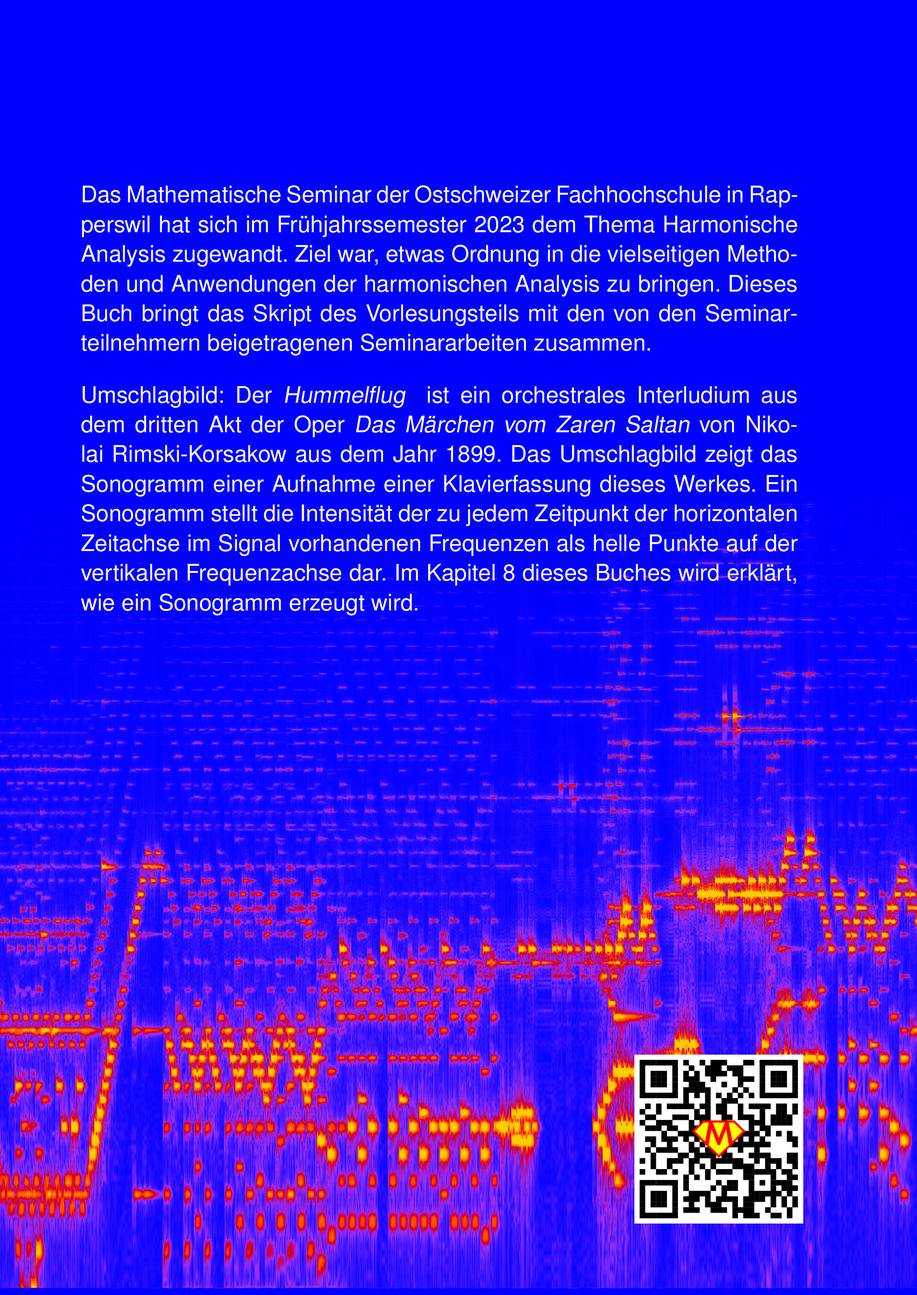
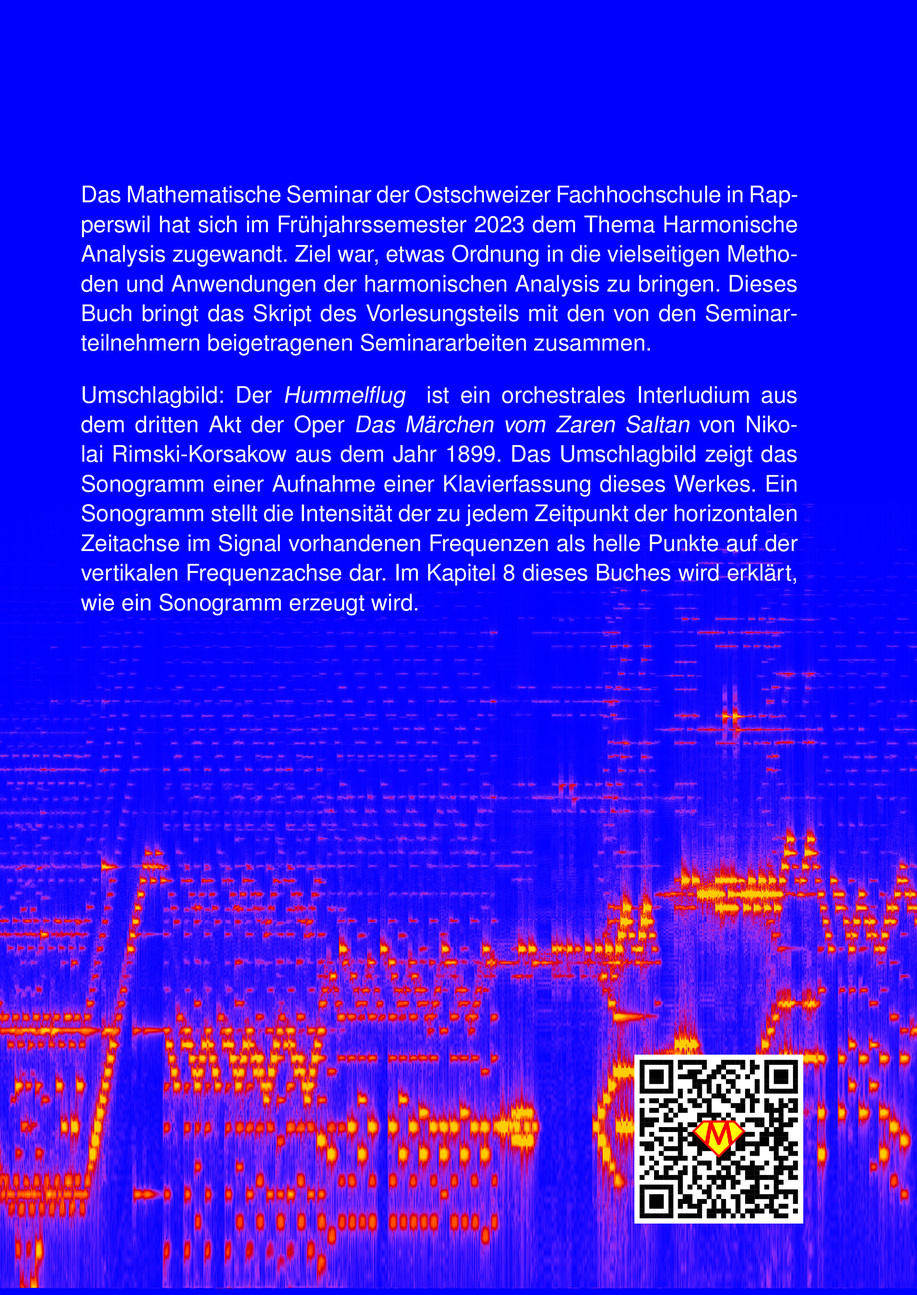
more index fixes

Changed region(s): [[0.6855, 0.8069, 0.8724, 0.9621]]

diff --git a/buch/papers/uebersicht.tex b/buch/papers/uebersicht.tex
@@ -15,11 +15,15 @@ und auch numerisch überprüft.
 Harmonische Analysis kann verwendet werden, um Tonsignale zu analysieren
 und zu modifizieren.
 {\em Alain Keller} erklärt im Paper Sonogramm
+\index{Keller, Alain}%
+\index{Sonogramm}%
 (Kapitel~\ref{chapter:sonogramm}), wie man damit eine
 visuelle Darstellung eines Musikstücks bekommen kann.
 {\em Florian Baumgartner} erweitert diese Ideen dann auf eine
+\index{Baumgartner, Florian}%
 Methode zur Korrektur einzelner Töne.
 Solche Systeme sind unter dem Namen Auto-Tune (Kapitel~\ref{chapter:autotune})
+\index{Auto-Tune}%
 bekannt und spielen
 in der modernen Musikproduktion eine wichtige Rolle.
 
@@ -29,7 +33,9 @@ Zum Beispiel kann man sich die Frage stellen, was überhaupt
 ``Rauschen'' ist und wie man es mit Hilfe der Frequenzanalyse
 charakterisieren kann.
 {\em Lukas Reitemeier} beschreibt in seinem Paper
+\index{Reitemeier, Lukas}%
 über die Brownsche Bewegung (Kapitel~\ref{chapter:brown})
+\index{Brownsche Bewegung}%
 ein Modell für Rauschen zeigt auch das Frequenzspektrum.
 
 Die Fourier-Transformation kann auch auf Bilder angewendet werden,
@@ -37,6 +43,8 @@ was natürlich mit sehr viel grösserem Rechenaufwand als für eine
 eindimensionales Signal möglich ist.
 {\em Marco Niederberger} und {\em Yanick Schoch} zeigen in ihrem Paper
 (Kapitel~\ref{chapter:opt}), 
+\index{Schoch, Yanick}%
+\index{Niederberger, Marco}%
 wie das Beugungsphänomen auf eine optische Realisierung der
 Fourier-Transformation führt.
 Damit wird es möglich, die Fourier-Transformation ohne Rechnung in
@@ -46,31 +54,41 @@ in einem Versuch ebenfalls vorführen.
 Die Fourier-Transformation kann auch gebraucht werden, um Bilder
 zu komprimieren.
 Wie das im Falle des JPEG-Formates funktioniert erklärt
+\index{JPEG}%
 {\em Jakob Gierer} in Kapitel~\ref{chapter:jpeg}.
+\index{Gierer, Jakob}%
 Er deutet auch an, wie JPEG-2000 die gleichen Ideen, allerdings mit
 Wavelets statt harmonischen Schwingungen, für fortgeschrittene 
 Komprimierung mit weniger Artefakten verwendet.
 Mehr Information zur Wavelet-Transformation und insbesondere
 zur Realisierung derselben mit dem Computer stellt {\em Stefan Richle}
+\index{Richle, Stefan}%
 in Kapitel~\ref{chapter:wavelets} dar.
+\index{Wavelets}%
 
 Ein Computer-Tomograph kann Querschnitt-Bilder eines Körpers
 herstellen.
+\index{Computer-Tomograph}%
 Diese Fähigkeit macht ihn zu einem der bedeutendsten Bildgebenden
 Verfahren in der Medizin.
 {\em Nathan Hoffman} erklärt in seiner Arbeit (Kapitel~\ref{chapter:ct}),
+\index{Hoffman, Nathan}%
 wie ein Bild aus der
 Radon-Transformation wiederhergestellt werden kann und zeigt auch
+\index{Radon-Transformation}%
 an Simulationen wie das praktisch funktioniert, wenngleich natürlich
 je nach Auflösung der Messung mehr oder weniger störende Artefakte bleiben.
 
 Die Gelfand-Theorie zeigt, das die wohlbekannte harmonische
+\index{Gelfand-Theorie}%
 Analysis mit harmonischen Schwingungen nur ein Fall von vielen
 möglichen solchen harmonischen Analysetheorien ist.
 {\em Vincent Haufe} beschreibt in Kapitel~\ref{chapter:mellin},
+\index{Haufe, Vincent}%
 wie man aus einer Aufgabe
 zur Bestimmung der zeitlichen Skalierung eines Signals eine
 neue Integraltransformation, die Mellin-Transformation, ableiten 
+\index{Mellin-Transformation}%
 kann.
 Seine Darstellung weist auch auf Anwendungen in der Antennentheorie
 hin.
@@ -86,11 +104,14 @@ Tidenstände für die Schiffahrt oder für die Planung von Küstenbauwerken
 ableiten.
 {\em David Bättig} erzählt die Geschichte dieser frühen aber besonders
 wichtigen Anwendung in Kapiteln~\ref{chapter:gezeiten}.
+\index{Bättig, David}%
+\index{Gezeiten}%
 
 Gezeiten sind nicht das einzige Phänomen auf der Erde, bei dem die
 Verwendung der harmonischen Analysis einen Vorteil bei der Lösungsfindung
 bringen kann.
 {\em Dmitry Grigoriev} erklärt in Kapitel~\ref{chapter:spektral},
+\index{Grigoriev, Dmitry}%
 wie die spektralen Methoden funktionieren, die seit den achtziger Jahren
 in der numerischen Wetterprognose verwendet werden und zu einer
 merklichen Verbesserung der Prognosegenauigkeit geführt haben.
@@ -99,6 +120,7 @@ merklichen Verbesserung der Prognosegenauigkeit geführt haben.
 Einfluss auf die Parameter der Erdbahn.
 Diese schlagen sich nieder in periodischen Veränderungen im Klima.
 {\em Jan Langenegger} analysiert berechnete Bahndaten über mehrere
+\index{Langenegger, Jan}%
 Millionen Jahre mit einfachsten Mitteln und findet die Periodiztäten,
 die Milankovi\'c vor über 100 Jahren bereits entdeckt hat.
 Er untersucht in Kapitel~\ref{chapter:milankovic} auch, welchen Einfluss
@@ -106,12 +128,14 @@ auf die aktuelle Klimadiskussion diese Zyklen haben können.
 
 Machine Learning und AI sind zur Zeit vor allem wegen ChatGPT und anderen
 spektakulären Anwendungen in aller Munde.
+\index{ChatGPT}%
 Die dahinterstehende Technologie der künstlichen neuronalen Netzwerke
 verspricht, für jedes beliebige Problem einen ``Approximator'' zu finden,
 der darauf trainiert werden kann, jedes beliebige Problem zu lösen.
 Es liegt daher nahe zu fragen, wie gut diese Technologie die
 Fourier-Transformation lernen kann.
 {\em Dominik Geschwind} beantwortet diese Frage in seiner Arbeit
+\index{Gschwind, Dominik}%
 (Kapitel~\ref{chapter:ml}).
 Er untersucht auch die Frage nach der Genauigkeit und Performance mit der
 AI die Fourier-Transformation berechnen kann, mit ernüchternden Resultaten.

diff --git a/buch/papers/ct/teil0.tex b/buch/papers/ct/teil0.tex
@@ -38,8 +38,8 @@ Jede Substanz hat die Eigenschaft, beim Durchgang von Röntgenstrahlen pro Milli
 \end{table}
 
 In der Praxis verwenden Radiologen eine modifizierte Version des Dämpfungskoeffizienten, die sogenannte Hounsfield-Einheit. Dieser von Godfrey Hounsfield eingeführte Zahlenwert ermöglicht einen direkten Vergleich zwischen dem Abschwächungskoeffizienten eines Mediums und dem von Wasser. Die Hounsfield-Einheit eines Mediums ist
-\index{Hounsfield}%
-\index{Godfrey Hounsfield}%
+\index{Hounsfield-Einheit}%
+\index{Hounsfield, Godfrey}%
 \begin{equation}
 	H_{\text{Medium}} := \dfrac{A_{\text{Medium}}-A_{\text{Wasser}}}{A_{\text{Wasser}} - A_{\text{Luft}}} \cdot 1000,
 \end{equation}

diff --git a/buch/chapters/060-diskret/6-unschaerfe.tex b/buch/chapters/060-diskret/6-unschaerfe.tex
@@ -435,6 +435,7 @@ Dies beweist den Satz.
 
 \begin{satz}[Donoho-Stark]
 \label{buch:diskret:unschaerfe:satz:donoho-stark}
+\index{Donoho-Stark-Unschärfe}%
 Für $f\colon G\to\mathbb{C}$ mit $f\ne 0$ gilt
 \[
 |\operatorname{supp}f|
@@ -552,6 +553,7 @@ Damit folgt jetzt aus dem allgemeinen Unschärfeprinzip der folgende
 Satz.
 
 \begin{satz}[$\varepsilon$-$\delta$-Unschärfe für $k$-Hadamard-Matrix]
+\index{epsilon-delta-Unschaerfe@$\varepsilon$-$\delta$-Unschärfe}%
 Ist $A$ eine $k$-Hadamard-Matrix und $\varepsilon,\delta\in [0,1)$,
 dann gilt
 \[

diff --git a/cover/buchcover.tex b/cover/buchcover.tex
@@ -176,7 +176,7 @@ wird.
         ({\einschlag+(\breite+13.6)/2+0.1},{\einschlag+\qrbottomoffset+\qrbreite+0.1});
 
 \node at ({\einschlag+(\breite+13.6)/2-\qrbreite/2},{\einschlag+\qrbottomoffset+\qrbreite/2}) {
-\qrcode[height=3cm]{https://mathsem.ch/jahre/2023}
+\qrcode[height=3cm]{https://mathsem.ch/jahre/2023/SeminarHarmonischeAnalysis.pdf}
 };
 \node at ({\einschlag+(\breite+13.6)/2-\qrbreite/2},{\einschlag+\qrbottomoffset+\qrbreite/2}) {
 \includegraphics[width=10mm]{mathman.png}

diff --git a/buch/papers/opt/main.tex b/buch/papers/opt/main.tex
@@ -15,6 +15,8 @@
 \kopflinks{Optische Fourier-Transformation}
 \begin{refsection}
 \chapterauthor{Marco Niederberger und Yanick Schoch}
+\index{Schoch, Yanick}%
+\index{Niederberger, Marco}%
 
 Die Fourier-Transformation ist in der Technik und insbesondere auch in der Elektrotechnik allgegenwärtig.
 Die Berechnung wurde mehrmals verbessert und es sind diverse schnelle Algorithmen vorhanden.

diff --git a/buch/papers/ml/0_einleitung.tex b/buch/papers/ml/0_einleitung.tex
@@ -41,7 +41,7 @@ Bilderkennung, Klassifizierung, Spracherkennung oder maschinelle Übersetzung.
 \index{Bilderkennung}%
 \index{Klassifizierung}%
 \index{Spracherkennung}%
-\index{Übersetzung, maschinell}%
+\index{Uebersetzung, maschinell@Übersetzung, maschinell}%
 
 \medskip
 In den nächsten zwei Abschnitten wollen wir diesen universellen Approximator konstruieren.

diff --git a/buch/papers/ct/main.tex b/buch/papers/ct/main.tex
@@ -10,6 +10,7 @@
 \kopflinks{Rekonstruktion eines CT-Bildes}
 \begin{refsection}
 \chapterauthor{Nathan Hoffman}
+\index{Hoffman, Nathan}%
 
 Im folgenden Kapitel wird die Rekonstruktion eines Computertomographie-Bildes, als CT-Bild abgekürzt, erklärt. 
 \index{Computertomographie}%

diff --git a/buch/papers/milankovic/main.tex b/buch/papers/milankovic/main.tex
@@ -11,6 +11,8 @@
 
 \begin{refsection}
 \chapterauthor{Jan Langenegger}
+\index{Langenegger, Jan}%
+
 \input{papers/milankovic/teil0_Einleitung.tex}
 \input{papers/milankovic/teil1_VorstellungderMilankovic-Zyklen.tex}
 \input{papers/milankovic/teil2_WissenschaftlicheArbeit.tex}

diff --git a/buch/papers/ml/main.tex b/buch/papers/ml/main.tex
@@ -10,6 +10,7 @@
 \kopflinks{Fourier-Transformation mit Machine Learning}
 \begin{refsection}
 \chapterauthor{Dominik Gschwind}
+\index{Gschwind, Dominik}%
 
 \input{papers/ml/0_einleitung.tex}
 \input{papers/ml/1_lineare_regression.tex}

diff --git a/buch/papers/autotune/main.tex b/buch/papers/autotune/main.tex
@@ -10,6 +10,7 @@
 \kopflinks{Auto-Tune}
 \begin{refsection}
 \chapterauthor{Florian Baumgartner}
+\index{Baumgartner, Florian}%
 
 \input{papers/autotune/00_Einleitung.tex}
 \input{papers/autotune/01_Pitch_Tonsystem_und_Stimmung.tex}

diff --git a/buch/papers/sonogramm/main.tex b/buch/papers/sonogramm/main.tex
@@ -10,6 +10,7 @@
 \kopflinks{Sonogramm}
 \begin{refsection}
 \chapterauthor{Alain Keller}
+\index{Keller, Alain}%
 
 Mit der Fourier-Transformation haben wir eine Methode, um Frequenzen eines
 Signals zu analysieren.

diff --git a/buch/papers/spektral/main.tex b/buch/papers/spektral/main.tex
@@ -10,6 +10,7 @@
 \kopflinks{Spektrale Methoden}
 \begin{refsection}
 \chapterauthor{Dmitry Grigoriev}
+\index{Grigoriev, Dmitry}%
 
 \input{papers/spektral/00_Einleitung.tex}
 \input{papers/spektral/01_NWP.tex}
